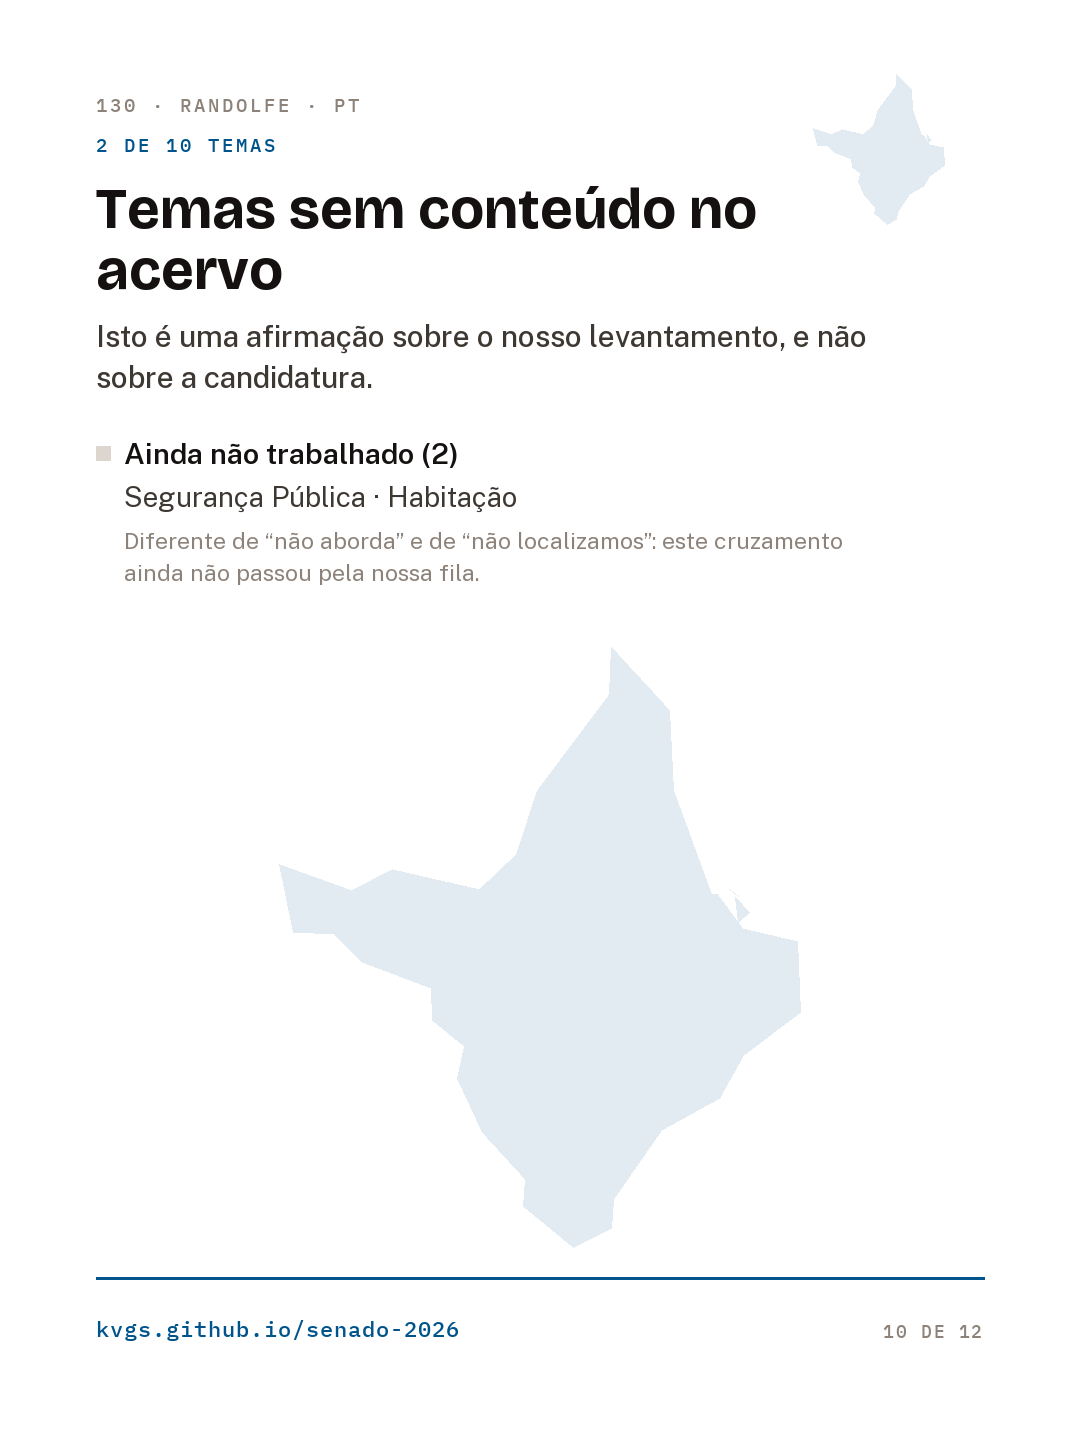
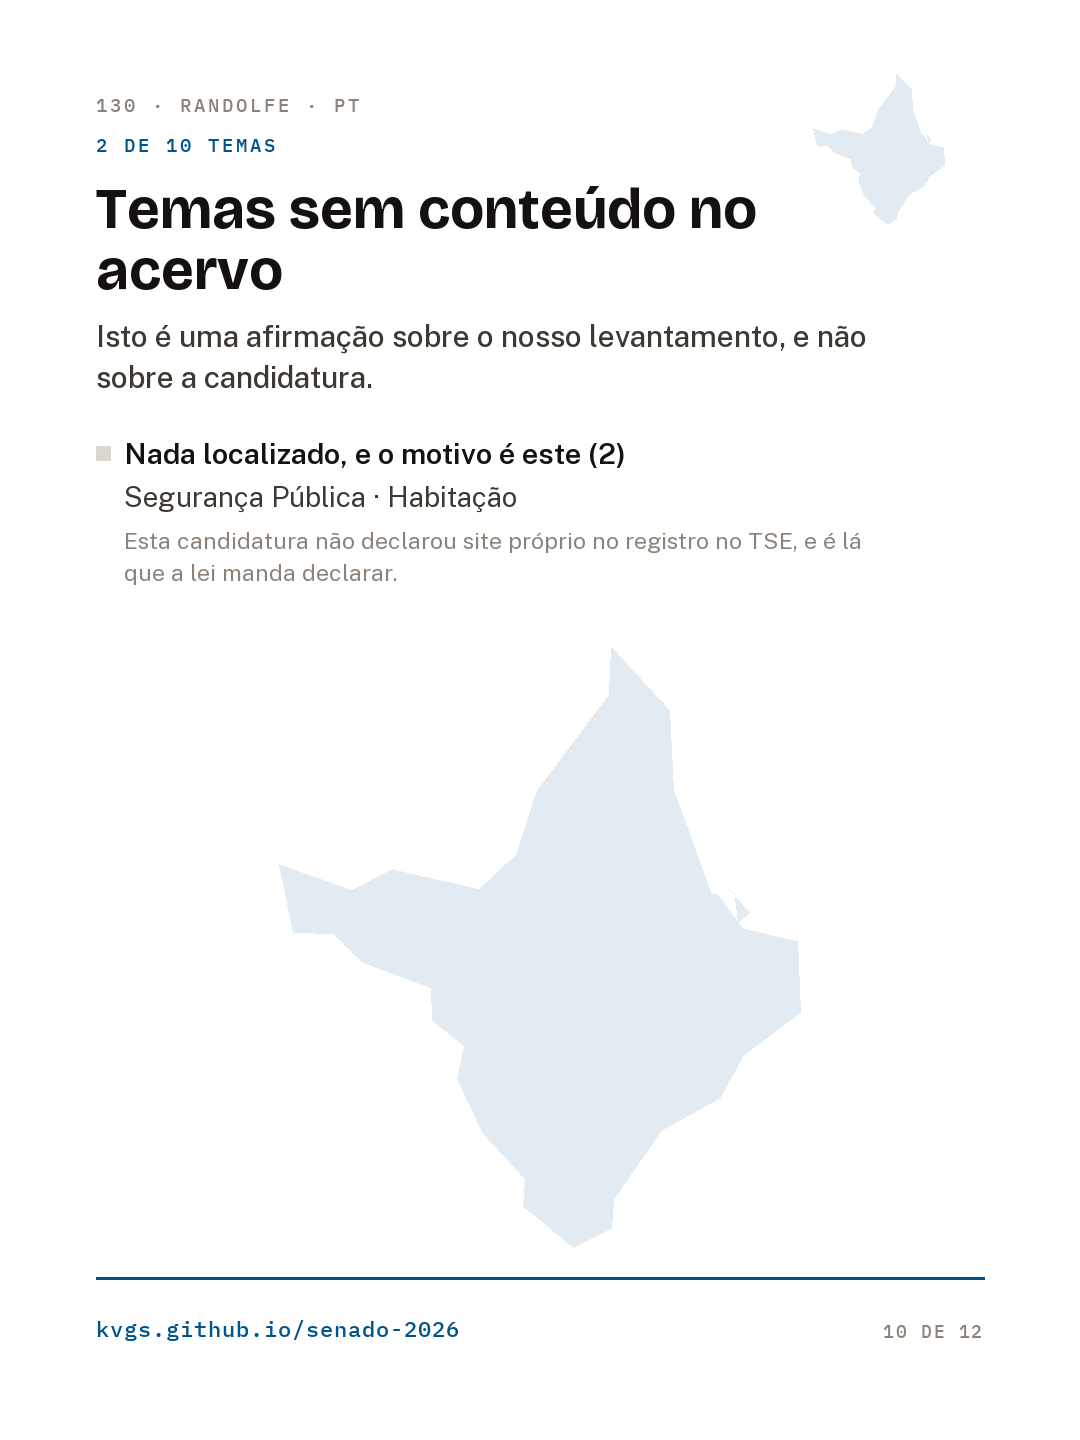
Carrossel do Lucas Barreto: 4 slides que dizem por que estao vazios
Ele e senador em exercicio e tem zero linha no acervo. O carrossel dele e o unico
do projeto sem um slide de tema — e o teste mais duro do principio de que
ausencia e informacao: se a arte nao disser POR QUE, o post inteiro le como "este
candidato nao tem nada", que e afirmacao sobre ele.

A PRIMEIRA VERSAO MENTIA SOBRE NOS. O slide dizia "Ainda nao trabalhado (10)" e
"este cruzamento ainda nao passou pela nossa fila" — falso. Passou: procuramos
site (nao declarou) e lemos o que o PSD publica como programa (recusamos, porque
e o Manifesto a Nacao de 2011). O site dele ja dizia a verdade desde ontem, e a
arte dizia outra coisa.

TRES CORRECOES:
  - o titulo do grupo vira "Nada localizado, e o motivo e este", porque "ainda
    nao trabalhado" contradizia o paragrafo logo abaixo dele
  - a explicacao passa a ser a MESMA da pagina: nao declarou site, e o programa
    do partido foi lido e nao entrou, com o motivo
  - a LEGENDA tambem leva o motivo. A capa dizia e a legenda nao, e a legenda e o
    texto que vai colado no Instagram — sem ela, o post de 0/0/10 nao se explica

E A NOTA SO ENTRA ONDE NAO HA ESCOPO ESPECIFICO. O Petecao tambem tem 0 e 0, mas
os dez registros dele sao estado D com escopo escrito: dizem que a curadoria ACHOU
o site dele, que ele nao foi declarado ao TSE, e que parte das paginas depende de
JavaScript e nao pudemos ler. Colar a frase generica por cima seria trocar o que
se sabe pelo que se sabe menos, e as duas apareceriam no mesmo post se
[…]

diff --git a/gerar_artes_candidatura.py b/gerar_artes_candidatura.py
@@ -264,6 +264,13 @@ def medir(uf: str, numero: str | None = None) -> dict:
         saida.append({
             "cid": cid, "nome": c["pessoa"]["nome_urna"],
             "recusa": recusados().get(c["id_partido"]),
+            # POR QUE ESTA VAZIO, quando esta vazio por decisao nossa e nao por
+            # fila. O Lucas Barreto e senador em exercicio e tem zero linha: nao
+            # declarou site e o programa do PSD foi lido e recusado. A arte dizia
+            # "ainda nao passou pela nossa fila" dez vezes, o que e falso — e o
+            # site dele, desde 08/09/2026, ja diz a verdade. Arte contradizendo a
+            # pagina e pior que as duas erradas juntas.
+            "sem_site": not (c.get("contato") or {}).get("site"),
             "numero": str(c["numero_urna"]),
             "sigla": partidos.get(c["id_partido"], c["id_partido"]),
             "foto": RAIZ / arq if arq else None,
@@ -593,6 +600,25 @@ def arte_sem_conteudo(d: dict, p: dict, vazios: list, cor: str, i: int,
     # que o registro.
     def texto_escopo(est: str, curto: bool) -> str:
         cheio = escopos.get(est) or ROTULO[est][2]
+        # "AINDA NAO PASSOU PELA NOSSA FILA" SO VALE QUANDO E VERDADE. Onde a
+        # candidatura nao declarou site e o programa do partido foi lido e
+        # recusado, nao houve fila: houve busca e houve decisao nossa. A frase
+        # aqui e a mesma que a pagina dela mostra, para arte e site nao se
+        # contradizerem.
+        if est == "-":
+            partes = []
+            if p.get("sem_site"):
+                partes.append("Esta candidatura não declarou site próprio no "
+                              "registro no TSE, e é lá que a lei manda declarar.")
+            if p.get("recusa"):
+                partes.append(f"O que o {p['recusa']['sigla']} publica como "
+                              f"programa foi lido e não entrou no acervo: "
+                              f"{p['recusa']['motivo_curto']}.")
+            if partes:
+                cheio = " ".join(partes)
+                if not curto:
+                    return cheio
+                return cheio + " O motivo inteiro está no site."
         if not curto:
             return cheio
         return (ROTULO[est][2] + " O escopo inteiro da busca — o que foi lido e "
@@ -615,6 +641,12 @@ def arte_sem_conteudo(d: dict, p: dict, vazios: list, cor: str, i: int,
         if not nomes:
             continue
         _, tipo, frase, titulo = ROTULO[est]
+        # O TITULO NAO PODE DESMENTIR A FRASE LOGO ABAIXO DELE. Onde o motivo do
+        # vazio e conhecido — nao declarou site e o programa do partido foi lido
+        # e recusado —, "Ainda nao trabalhado" contradiz o paragrafo seguinte,
+        # que diz justamente que foi trabalhado.
+        if est == "-" and (p.get("sem_site") or p.get("recusa")):
+            titulo = "Nada localizado, e o motivo é este"
         t.d.rectangle([t.m, t.y + 10, t.m + 14, t.y + 24], fill=CINZA_BORDA)
         t.d.text((t.m + 28, t.y), f"{titulo} ({len(nomes)})",
                  font=f("corpo", 29, 600), fill=TINTA)
@@ -760,6 +792,39 @@ def arte_fecho(d: dict, p: dict, cor: str, i: int, n_slides: int):
     t.salvar(f"{pasta(d['uf'], p['nome'], p['numero'])}/{i}-fecho.png")
 
 
+def por_que_vazio(p: dict) -> str:
+    """A razao do vazio, na LEGENDA e nao so na imagem.
+
+    O post do Lucas Barreto e 0 propria, 0 do partido, 10 sem conteudo. A capa
+    dizia o motivo e a legenda nao — e a legenda e o texto que vai colado no
+    Instagram. Sem o motivo, o post inteiro le como "este candidato nao tem
+    nada", que e afirmacao sobre ELE, quando o que houve foi busca nossa e
+    decisao nossa.
+    """
+    if p["n_proprias"] or p["n_partido"]:
+        return ""
+    # SO ONDE NAO HA ESCOPO ESPECIFICO. O Petecao tambem tem 0 e 0, mas os dez
+    # registros dele sao estado D com escopo escrito: dizem que a curadoria ACHOU
+    # o site (petecao.com.br), que ele nao foi declarado ao TSE, e que parte das
+    # paginas nao pode ser lida porque depende de JavaScript. Colar por cima
+    # disso a frase generica "nao declarou site" seria trocar o que se sabe pelo
+    # que se sabe menos — e as duas apareceriam no mesmo post, se contradizendo.
+    if any(b.get("escopo") for b in p["blocos"]):
+        return ""
+    linhas = []
+    if p.get("sem_site"):
+        linhas.append("▪ Esta candidatura não declarou site próprio no registro "
+                      "no TSE, e é lá que a lei manda declarar.")
+    if p.get("recusa"):
+        linhas.append(f"▪ O que o {p['recusa']['sigla']} publica como programa "
+                      f"foi lido e não entrou no acervo: "
+                      f"{p['recusa']['motivo_curto']}.")
+    if not linhas:
+        return ""
+    return ("\nNeste caso, o motivo do vazio está registrado, e é este:\n\n"
+            + "\n".join(linhas) + "\n")
+
+
 LEGENDA = """# {numero} {nome} ({sigla}) — {uf_nome}
 
 {n_slides} slides: capa, um slide por tema COM conteúdo, um slide juntando todos
@@ -781,6 +846,7 @@ Neste levantamento:
 ▪ {n_vazios} sem conteúdo
 
 ⚠ Estes três números são sobre o NOSSO levantamento, e não sobre a candidatura. Tema sem conteúdo aqui quer dizer que nós ainda não localizamos ou ainda não trabalhamos aquele cruzamento — não que a pessoa não tenha o que dizer.
+{por_que_vazio}
 
 Cada informação traz a citação literal do documento de onde saiu, o selo de origem e se já passou por revisão humana. No site tem a página completa, com o link de cada fonte.
 
@@ -824,6 +890,7 @@ def escreve_legenda(d: dict, p: dict, n_slides: int, cor_de: str) -> None:
         uf_nome=d["uf_nome"], n_slides=n_slides, n_temas=d["n_temas"],
         n_proprias=p["n_proprias"], n_partido=p["n_partido"],
         palavra_tema=plural(p["n_proprias"], "tema"),
+        por_que_vazio=por_que_vazio(p),
         n_vazios=p["n_vazios"], cor_de=cor_de, hashtags=" ".join(tags))
     alvo = _ar.SAIDA / pasta(d["uf"], p["nome"], p["numero"]) / "LEGENDA.md"
     alvo.parent.mkdir(parents=True, exist_ok=True)

diff --git a/artes-instagram/6-ap-555-lucas-barreto/LEGENDA.md b/artes-instagram/6-ap-555-lucas-barreto/LEGENDA.md
@@ -1,31 +1,36 @@
-# 290 Helio Silva (PCO) — Amapá
+# 555 Lucas Barreto (PSD) — Amapá
 
-13 slides: capa, um slide por tema COM conteúdo, um slide juntando todos
+4 slides: capa, um slide por tema COM conteúdo, um slide juntando todos
 os temas sem conteúdo, o convite para perguntar, e o fecho com a legenda das tarjas.
-Gerado por `python gerar_artes_candidatura.py --uf AP --numero 290`.
+Gerado por `python gerar_artes_candidatura.py --uf AP --numero 555`.
 
 ---
 
 ## Legenda — copie daqui até as hashtags, sem mexer
 
-O que já foi levantado sobre Helio Silva (PCO), tema a tema.
+O que já foi levantado sobre Lucas Barreto (PSD), tema a tema.
 
 São 10 temas. Em cada slide a tarja diz de quem é a proposta — da candidatura ou do partido — ou o que ainda não há.
 
 Neste levantamento:
 
 ▪ 0 temas com proposta própria
-▪ 10 com proposta do partido
-▪ 0 sem conteúdo
+▪ 0 com proposta do partido
+▪ 10 sem conteúdo
 
 ⚠ Estes três números são sobre o NOSSO levantamento, e não sobre a candidatura. Tema sem conteúdo aqui quer dizer que nós ainda não localizamos ou ainda não trabalhamos aquele cruzamento — não que a pessoa não tenha o que dizer.
+
+Neste caso, o motivo do vazio está registrado, e é este:
+
+▪ Esta candidatura não declarou site próprio no registro no TSE, e é lá que a lei manda declarar.
+▪ O que o PSD publica como programa foi lido e não entrou no acervo: o que o partido publica como programa é um documento histórico.
 
 
 Cada informação traz a citação literal do documento de onde saiu, o selo de origem e se já passou por revisão humana. No site tem a página completa, com o link de cada fonte.
 
 🔗 kvgs.github.io/senado-2026
 
-#eleições2026 #senado #amapa #heliosilva #pco #dadosabertos #votoconsciente #transparência
+#eleições2026 #senado #amapa #lucasbarreto #psd #dadosabertos #votoconsciente #transparência
 
 ---
 
@@ -49,5 +54,5 @@ quando precisa, é CAIXA ALTA ou lista com `▪`.
 
 ## Números desta candidatura
 
-- 0 temas com proposta própria, 10 com proposta do partido, 0 sem conteúdo (os dez temas somados)
+- 0 temas com proposta própria, 0 com proposta do partido, 10 sem conteúdo (os dez temas somados)
 - Cor e silhueta: azul, uma das cores da bandeira do Amapá; tom escolhido para dar 7,24:1 sobre o papel. Azul e não verde para o estado não se confundir com o Acre no feed

diff --git a/artes-instagram/6-ac-100-mara-rocha/LEGENDA.md b/artes-instagram/6-ac-100-mara-rocha/LEGENDA.md
@@ -20,6 +20,7 @@ Neste levantamento:
 
 ⚠ Estes três números são sobre o NOSSO levantamento, e não sobre a candidatura. Tema sem conteúdo aqui quer dizer que nós ainda não localizamos ou ainda não trabalhamos aquele cruzamento — não que a pessoa não tenha o que dizer.
 
+
 Cada informação traz a citação literal do documento de onde saiu, o selo de origem e se já passou por revisão humana. No site tem a página completa, com o link de cada fonte.
 
 🔗 kvgs.github.io/senado-2026

diff --git a/artes-instagram/6-ac-111-gladson-cameli/LEGENDA.md b/artes-instagram/6-ac-111-gladson-cameli/LEGENDA.md
@@ -20,6 +20,7 @@ Neste levantamento:
 
 ⚠ Estes três números são sobre o NOSSO levantamento, e não sobre a candidatura. Tema sem conteúdo aqui quer dizer que nós ainda não localizamos ou ainda não trabalhamos aquele cruzamento — não que a pessoa não tenha o que dizer.
 
+
 Cada informação traz a citação literal do documento de onde saiu, o selo de origem e se já passou por revisão humana. No site tem a página completa, com o link de cada fonte.
 
 🔗 kvgs.github.io/senado-2026

diff --git a/artes-instagram/6-ac-131-jorge-viana/LEGENDA.md b/artes-instagram/6-ac-131-jorge-viana/LEGENDA.md
@@ -20,6 +20,7 @@ Neste levantamento:
 
 ⚠ Estes três números são sobre o NOSSO levantamento, e não sobre a candidatura. Tema sem conteúdo aqui quer dizer que nós ainda não localizamos ou ainda não trabalhamos aquele cruzamento — não que a pessoa não tenha o que dizer.
 
+
 Cada informação traz a citação literal do documento de onde saiu, o selo de origem e se já passou por revisão humana. No site tem a página completa, com o link de cada fonte.
 
 🔗 kvgs.github.io/senado-2026

diff --git a/artes-instagram/6-ac-222-marcio-bittar/LEGENDA.md b/artes-instagram/6-ac-222-marcio-bittar/LEGENDA.md
@@ -20,6 +20,7 @@ Neste levantamento:
 
 ⚠ Estes três números são sobre o NOSSO levantamento, e não sobre a candidatura. Tema sem conteúdo aqui quer dizer que nós ainda não localizamos ou ainda não trabalhamos aquele cruzamento — não que a pessoa não tenha o que dizer.
 
+
 Cada informação traz a citação literal do documento de onde saiu, o selo de origem e se já passou por revisão humana. No site tem a página completa, com o link de cada fonte.
 
 🔗 kvgs.github.io/senado-2026

diff --git a/artes-instagram/6-ac-277-dr-junior-feitosa/LEGENDA.md b/artes-instagram/6-ac-277-dr-junior-feitosa/LEGENDA.md
@@ -20,6 +20,7 @@ Neste levantamento:
 
 ⚠ Estes três números são sobre o NOSSO levantamento, e não sobre a candidatura. Tema sem conteúdo aqui quer dizer que nós ainda não localizamos ou ainda não trabalhamos aquele cruzamento — não que a pessoa não tenha o que dizer.
 
+
 Cada informação traz a citação literal do documento de onde saiu, o selo de origem e se já passou por revisão humana. No site tem a página completa, com o link de cada fonte.
 
 🔗 kvgs.github.io/senado-2026

diff --git a/artes-instagram/6-ac-500-professor-inacio-moreira/LEGENDA.md b/artes-instagram/6-ac-500-professor-inacio-moreira/LEGENDA.md
@@ -20,6 +20,7 @@ Neste levantamento:
 
 ⚠ Estes três números são sobre o NOSSO levantamento, e não sobre a candidatura. Tema sem conteúdo aqui quer dizer que nós ainda não localizamos ou ainda não trabalhamos aquele cruzamento — não que a pessoa não tenha o que dizer.
 
+
 Cada informação traz a citação literal do documento de onde saiu, o selo de origem e se já passou por revisão humana. No site tem a página completa, com o link de cada fonte.
 
 🔗 kvgs.github.io/senado-2026

diff --git a/artes-instagram/6-ac-555-petecao/LEGENDA.md b/artes-instagram/6-ac-555-petecao/LEGENDA.md
@@ -20,6 +20,7 @@ Neste levantamento:
 
 ⚠ Estes três números são sobre o NOSSO levantamento, e não sobre a candidatura. Tema sem conteúdo aqui quer dizer que nós ainda não localizamos ou ainda não trabalhamos aquele cruzamento — não que a pessoa não tenha o que dizer.
 
+
 Cada informação traz a citação literal do documento de onde saiu, o selo de origem e se já passou por revisão humana. No site tem a página completa, com o link de cada fonte.
 
 🔗 kvgs.github.io/senado-2026

diff --git a/artes-instagram/6-ac-777-eduardo-velloso/LEGENDA.md b/artes-instagram/6-ac-777-eduardo-velloso/LEGENDA.md
@@ -20,6 +20,7 @@ Neste levantamento:
 
 ⚠ Estes três números são sobre o NOSSO levantamento, e não sobre a candidatura. Tema sem conteúdo aqui quer dizer que nós ainda não localizamos ou ainda não trabalhamos aquele cruzamento — não que a pessoa não tenha o que dizer.
 
+
 Cada informação traz a citação literal do documento de onde saiu, o selo de origem e se já passou por revisão humana. No site tem a página completa, com o link de cada fonte.
 
 🔗 kvgs.github.io/senado-2026

diff --git a/artes-instagram/6-ap-130-randolfe/LEGENDA.md b/artes-instagram/6-ap-130-randolfe/LEGENDA.md
@@ -20,6 +20,7 @@ Neste levantamento:
 
 ⚠ Estes três números são sobre o NOSSO levantamento, e não sobre a candidatura. Tema sem conteúdo aqui quer dizer que nós ainda não localizamos ou ainda não trabalhamos aquele cruzamento — não que a pessoa não tenha o que dizer.
 
+
 Cada informação traz a citação literal do documento de onde saiu, o selo de origem e se já passou por revisão humana. No site tem a página completa, com o link de cada fonte.
 
 🔗 kvgs.github.io/senado-2026

diff --git a/artes-instagram/6-ap-151-acacio-favacho/LEGENDA.md b/artes-instagram/6-ap-151-acacio-favacho/LEGENDA.md
@@ -20,6 +20,7 @@ Neste levantamento:
 
 ⚠ Estes três números são sobre o NOSSO levantamento, e não sobre a candidatura. Tema sem conteúdo aqui quer dizer que nós ainda não localizamos ou ainda não trabalhamos aquele cruzamento — não que a pessoa não tenha o que dizer.
 
+
 Cada informação traz a citação literal do documento de onde saiu, o selo de origem e se já passou por revisão humana. No site tem a página completa, com o link de cada fonte.
 
 🔗 kvgs.github.io/senado-2026
